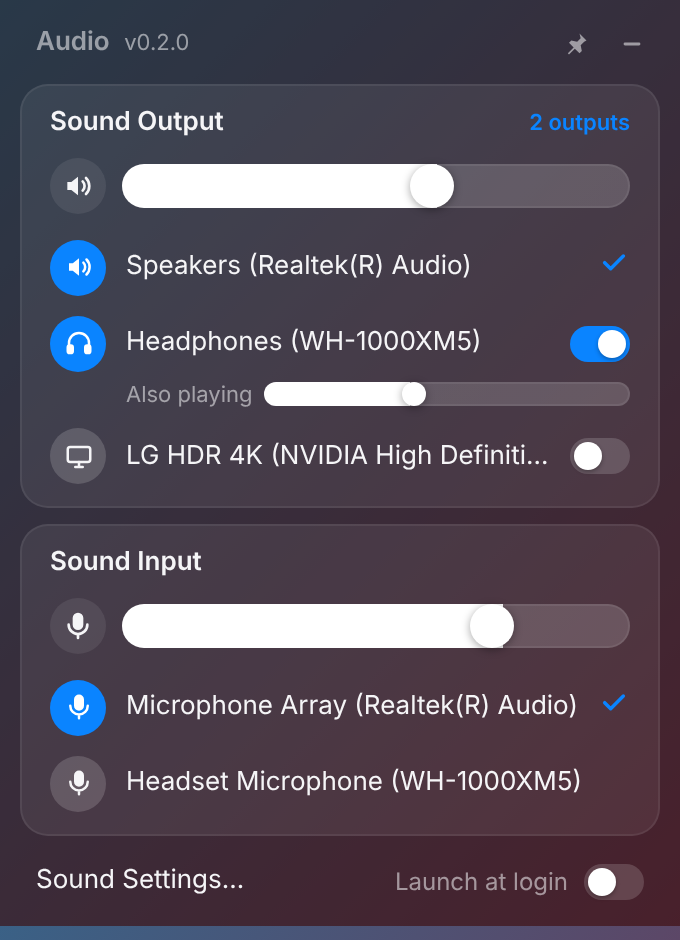
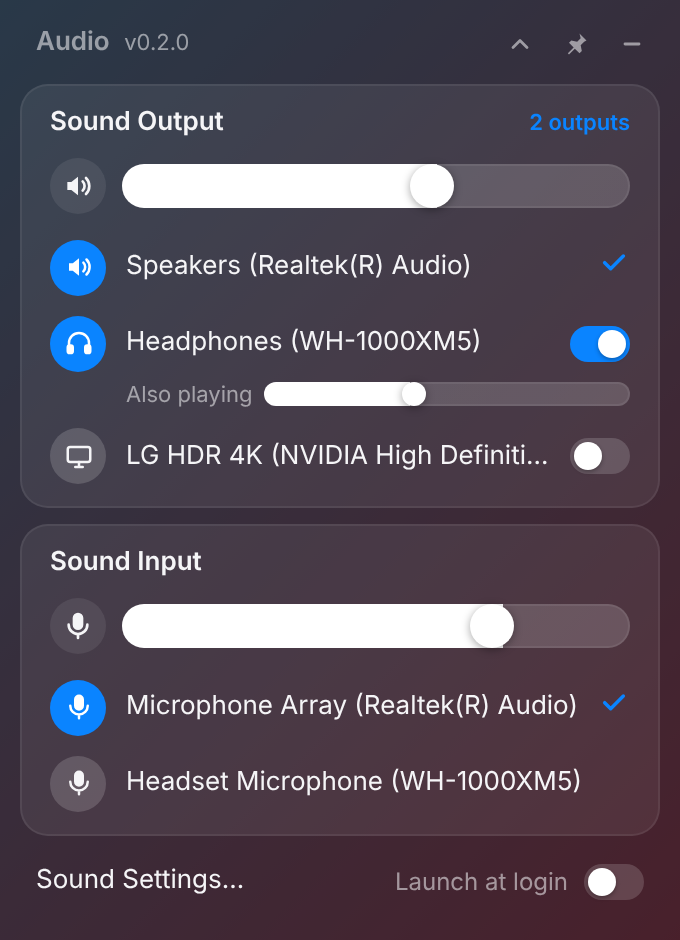
Add a collapse button that shrinks the HUD to a small tile
Collapsed, the HUD shows only the current output device and its volume
slider; the window shrinks to fit. The state is remembered. Version
0.3.0.

Claude-Session: https://claude.ai/code/session_01T7A3nYKYnWCd8q5Y3Ss7Lc

Changed region(s): [[0.0, 0.9872, 1.0, 1.0]]

diff --git a/ui/index.html b/ui/index.html
@@ -10,6 +10,9 @@
     <main class="panel" id="panel" data-tauri-drag-region>
       <header class="bar" data-tauri-drag-region>
         <span class="bar-title" data-tauri-drag-region>Audio <span class="version" id="version" data-tauri-drag-region></span></span>
+        <button class="icon-btn small" id="collapse" aria-pressed="false" title="Collapse to a small tile">
+          <svg viewBox="0 0 24 24" fill="none" stroke="currentColor" stroke-width="2.4" stroke-linecap="round" stroke-linejoin="round"><path d="m6 15 6-6 6 6"/></svg>
+        </button>
         <button class="icon-btn small" id="pin" aria-pressed="false" title="Pin on top of other windows">
           <svg viewBox="0 0 24 24" fill="currentColor"><path d="M15 3l6 6-2 1-3 3 1 5-2 2-4-4-5 5-1-1 5-5-4-4 2-2 5 1 3-3z"/></svg>
         </button>
@@ -20,6 +23,7 @@
       <section data-tauri-drag-region class="card" id="output-card">
         <header class="card-head" data-tauri-drag-region>
           <h2 data-tauri-drag-region>Sound Output</h2>
+          <span class="current" id="output-current" data-tauri-drag-region></span>
           <span class="hint" id="mirror-hint" hidden></span>
         </header>
         <div class="slider-row">

diff --git a/ui/main.js b/ui/main.js
@@ -122,6 +122,7 @@ function renderMaster(flow) {
   mute.classList.toggle("muted", !!muted);
   mute.innerHTML = isOut ? (muted ? ICONS.speakerMuted : ICONS.speaker) : muted ? ICONS.micMuted : ICONS.mic;
   mute.title = muted ? "Unmute" : "Mute";
+  if (isOut) $("output-current").textContent = device?.name ?? "";
 }
 
 function renderList(flow) {
@@ -283,6 +284,21 @@ pin.onclick = () => {
   showPinned(on);
   call("set_pinned", { pinned: on }).catch(() => showPinned(!on));
 };
+// Collapsed tile: only the current output and its volume. Remembered per machine.
+const collapse = $("collapse");
+const setCollapsed = (on) => {
+  document.body.classList.toggle("collapsed", on);
+  collapse.setAttribute("aria-pressed", on);
+  collapse.title = on ? "Expand" : "Collapse to a small tile";
+  try {
+    localStorage.setItem("collapsed", on ? "1" : "");
+  } catch {}
+  fitWindow();
+};
+try {
+  setCollapsed(localStorage.getItem("collapsed") === "1");
+} catch {}
+collapse.onclick = () => setCollapsed(!document.body.classList.contains("collapsed"));
 $("hide").onclick = () => invoke("hide_widget").catch(() => {});
 
 window.addEventListener("focus", refresh);

diff --git a/ui/styles.css b/ui/styles.css
@@ -125,6 +125,32 @@ h2 {
   margin-left: 4px;
 }
 
+/* ---- collapsed tile ---- */
+.current {
+  display: none;
+  min-width: 0;
+  overflow: hidden;
+  text-overflow: ellipsis;
+  white-space: nowrap;
+  color: var(--muted);
+}
+
+.collapsed :is(#input-card, .device-list, .footer, .hint, .card-head h2, .version) {
+  display: none;
+}
+
+.collapsed .current {
+  display: block;
+}
+
+#collapse svg {
+  transition: transform 0.15s;
+}
+
+.collapsed #collapse svg {
+  transform: rotate(180deg);
+}
+
 #pin.on {
   color: var(--accent);
 }

diff --git a/README.md b/README.md
@@ -11,6 +11,10 @@ A macOS Control Center style floating audio switcher for **Windows 11**, with a 
 - A macOS-style volume slider and mute button for the current output and input.
 - **Multi-output.** Turn on the switch next to any other output and it plays the same audio as the default device, so you can use 2, 3 or more outputs at once. Each extra output gets its own volume slider. Your choices are saved and come back on restart.
 - **Desktop HUD:** a frameless Mica window that stays on your desktop. Drag it anywhere by its top bar and it remembers the spot. Click the **pin** to keep it above other windows, or **–** to hide it to the tray.
+- **Collapse to a tile:** the ⌃ button in the top bar shrinks the HUD to just the current output and its volume slider. Click it again to expand. It remembers which way you left it.
+
+  <img src="docs/screenshot-tile.png" width="300" alt="Collapsed tile" />
+
 - Follows the light/dark theme.
 - Shows and hides from the tray icon, the global shortcut **Ctrl + Alt + A**, the `audiowidget://toggle` link, or the Seelen UI toolbar.
 - Optional "Launch at login".
